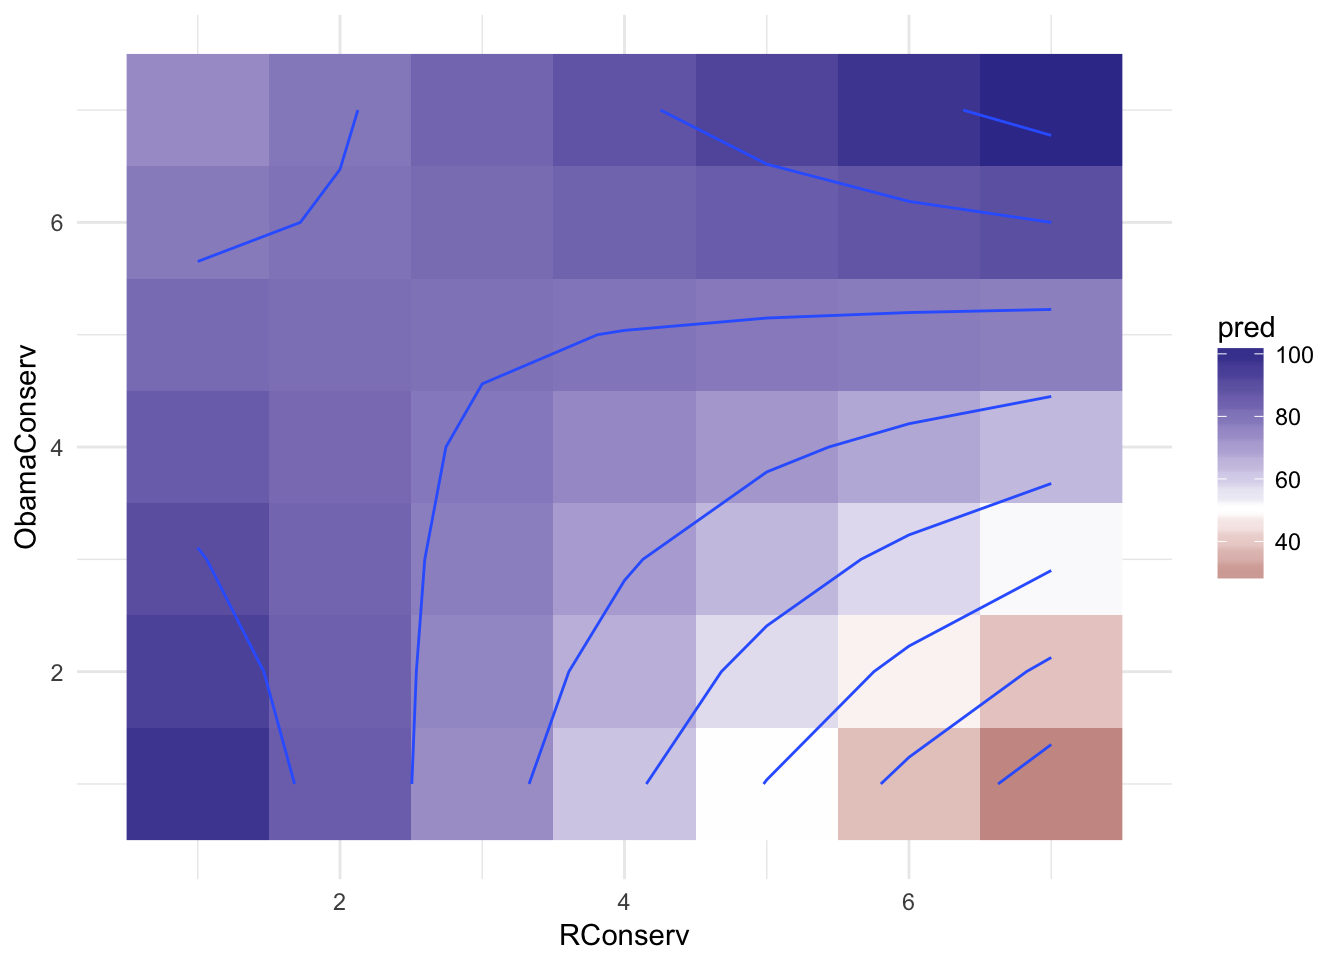
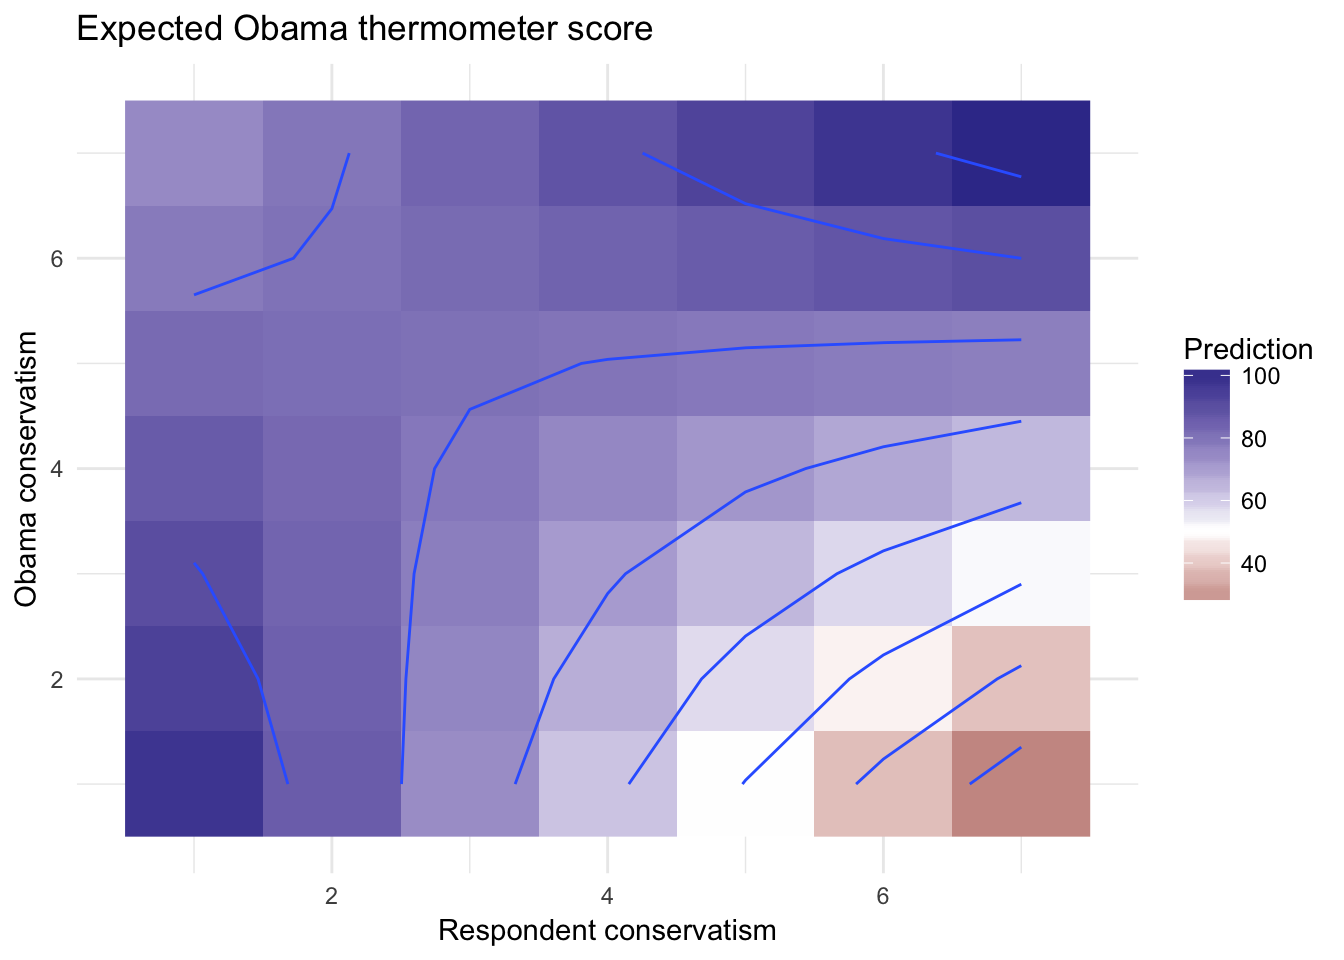
Fix typos

diff --git a/persp013_interaction_terms.html b/persp013_interaction_terms.html
@@ -859,7 +859,7 @@ E(\text{Obama thermometer}) &amp; = (92.255 -11.069 (1)) + (-3.805 -2.856 (\text
 <div class="sourceCode"><pre class="sourceCode r"><code class="sourceCode r"><span class="kw">coef</span>(obama_ideo_gop)[[<span class="st">&quot;GOP&quot;</span>]] +<span class="st"> </span><span class="kw">coef</span>(obama_ideo_gop)[[<span class="st">&quot;RConserv:GOP&quot;</span>]]</code></pre></div>
 <pre><code>## [1] -13.9</code></pre>
 <p>Likewise, we can recover the standard errors using the formula:</p>
-<p><span class="math display">\[\hat{\sigma}_{\hat{\psi}_1} = \sqrt{\widehat{\text{Var}(\hat{\beta}_1)} + (\text{GOP})^2 \widehat{\text{Var}(\hat{\beta_3}) + 2 (\text{GOP}) \widehat{\text{Cov}(\hat{\beta}_1 \hat{\beta}_3)}}}\]</span></p>
+<p><span class="math display">\[\hat{\sigma}_{\hat{\psi}_1} = \sqrt{\widehat{\text{Var}(\hat{\beta}_1)} + (\text{GOP})^2 \widehat{\text{Var}(\hat{\beta_3})} + 2 (\text{GOP}) \widehat{\text{Cov}(\hat{\beta}_1 \hat{\beta}_3)}}\]</span></p>
 <p>We can retrieve all of the necessary elements from the variance-covariance matrix using the <code>vcov()</code> function:</p>
 <div class="sourceCode"><pre class="sourceCode r"><code class="sourceCode r"><span class="kw">vcov</span>(obama_ideo_gop)</code></pre></div>
 <pre><code>##              (Intercept) RConserv    GOP RConserv:GOP
@@ -1015,7 +1015,11 @@ instant_effect &lt;-<span class="st"> </span>function(model, mod_var){
 <span class="st">  </span><span class="kw">ggplot</span>(<span class="kw">aes</span>(RConserv, ObamaConserv, <span class="dt">z =</span> pred, <span class="dt">fill =</span> pred)) +
 <span class="st">  </span><span class="kw">geom_raster</span>() +
 <span class="st">  </span><span class="kw">scale_fill_gradient2</span>(<span class="dt">midpoint =</span> <span class="dv">50</span>) +
-<span class="st">  </span><span class="kw">geom_contour</span>()</code></pre></div>
+<span class="st">  </span><span class="kw">geom_contour</span>() +
+<span class="st">  </span><span class="kw">labs</span>(<span class="dt">title =</span> <span class="st">&quot;Expected Obama thermometer score&quot;</span>,
+       <span class="dt">x =</span> <span class="st">&quot;Respondent conservatism&quot;</span>,
+       <span class="dt">y =</span> <span class="st">&quot;Obama conservatism&quot;</span>,
+       <span class="dt">fill =</span> <span class="st">&quot;Prediction&quot;</span>)</code></pre></div>
 <p><img src="persp013_interaction_terms_files/figure-html/obama-heatmap-1.png" width="672" /></p>
 <p>Or a 3D surface plot:</p>
 <div class="sourceCode"><pre class="sourceCode r"><code class="sourceCode r">nes %&gt;%
@@ -1070,7 +1074,6 @@ instant_effect &lt;-<span class="st"> </span>function(model, mod_var){
 ##  codetools      0.2-15     2016-10-05
 ##  coefplot     * 1.2.4.9000 2017-04-25
 ##  colorspace     1.3-2      2016-12-14
-##  crosstalk      1.0.0      2016-12-21
 ##  DBI            0.6        2017-03-09
 ##  devtools       1.12.0     2016-06-24
 ##  digest         0.6.12     2017-01-27
@@ -1084,10 +1087,10 @@ instant_effect &lt;-<span class="st"> </span>function(model, mod_var){
 ##  hms            0.3        2016-11-22
 ##  htmltools      0.3.6      2017-04-28
 ##  htmlwidgets    0.8        2016-11-09
-##  httpuv         1.3.3      2015-08-04
 ##  httr           1.2.1      2016-07-03
 ##  jsonlite       1.4        2017-04-08
 ##  knitr          1.15.1     2016-11-22
+##  labeling       0.3        2014-08-23
 ##  lattice        0.20-34    2016-09-06
 ##  lazyeval       0.2.0      2016-06-12
 ##  lme4           1.1-12     2016-04-16
@@ -1098,7 +1101,6 @@ instant_effect &lt;-<span class="st"> </span>function(model, mod_var){
 ##  MatrixModels   0.4-1      2015-08-22
 ##  memoise        1.0.0      2016-01-29
 ##  mgcv           1.8-17     2017-02-08
-##  mime           0.5        2016-07-07
 ##  minqa          1.2.4      2014-10-09
 ##  mnormt         1.5-5      2016-10-15
 ##  modelr       * 0.1.0      2016-08-31
@@ -1123,7 +1125,6 @@ instant_effect &lt;-<span class="st"> </span>function(model, mod_var){
 ##  rprojroot      1.2        2017-01-16
 ##  rvest          0.3.2      2016-06-17
 ##  scales         0.4.1      2016-11-09
-##  shiny          1.0.0      2017-01-12
 ##  SparseM        1.74       2016-11-10
 ##  stringi        1.1.2      2016-10-01
 ##  stringr      * 1.2.0      2017-02-18
@@ -1135,7 +1136,6 @@ instant_effect &lt;-<span class="st"> </span>function(model, mod_var){
 ##  viridisLite    0.2.0      2017-03-24
 ##  withr          1.0.2      2016-06-20
 ##  xml2           1.1.1      2017-01-24
-##  xtable         1.8-2      2016-02-05
 ##  yaml           2.1.14     2016-11-12
 ##  source                               
 ##  cran (@0.2.0)                        
@@ -1144,7 +1144,6 @@ instant_effect &lt;-<span class="st"> </span>function(model, mod_var){
 ##  CRAN (R 3.3.2)                       
 ##  CRAN (R 3.3.3)                       
 ##  Github (jaredlander/coefplot@0755a00)
-##  CRAN (R 3.3.2)                       
 ##  CRAN (R 3.3.2)                       
 ##  CRAN (R 3.3.3)                       
 ##  CRAN (R 3.3.0)                       
@@ -1160,9 +1159,9 @@ instant_effect &lt;-<span class="st"> </span>function(model, mod_var){
 ##  cran (@0.3.6)                        
 ##  CRAN (R 3.3.1)                       
 ##  CRAN (R 3.3.0)                       
-##  CRAN (R 3.3.0)                       
 ##  cran (@1.4)                          
 ##  cran (@1.15.1)                       
+##  CRAN (R 3.3.0)                       
 ##  CRAN (R 3.3.3)                       
 ##  CRAN (R 3.3.0)                       
 ##  cran (@1.1-12)                       
@@ -1173,7 +1172,6 @@ instant_effect &lt;-<span class="st"> </span>function(model, mod_var){
 ##  CRAN (R 3.3.0)                       
 ##  CRAN (R 3.3.0)                       
 ##  CRAN (R 3.3.3)                       
-##  CRAN (R 3.3.0)                       
 ##  cran (@1.2.4)                        
 ##  CRAN (R 3.3.0)                       
 ##  CRAN (R 3.3.0)                       
@@ -1199,7 +1197,6 @@ instant_effect &lt;-<span class="st"> </span>function(model, mod_var){
 ##  CRAN (R 3.3.0)                       
 ##  CRAN (R 3.3.1)                       
 ##  CRAN (R 3.3.2)                       
-##  CRAN (R 3.3.2)                       
 ##  CRAN (R 3.3.0)                       
 ##  CRAN (R 3.3.2)                       
 ##  Github (tidyverse/tibble@08af6b0)    
@@ -1210,7 +1207,6 @@ instant_effect &lt;-<span class="st"> </span>function(model, mod_var){
 ##  cran (@0.2.0)                        
 ##  CRAN (R 3.3.0)                       
 ##  CRAN (R 3.3.2)                       
-##  CRAN (R 3.3.0)                       
 ##  cran (@2.1.14)</code></pre>
 </div>
 <div class="footnotes">
